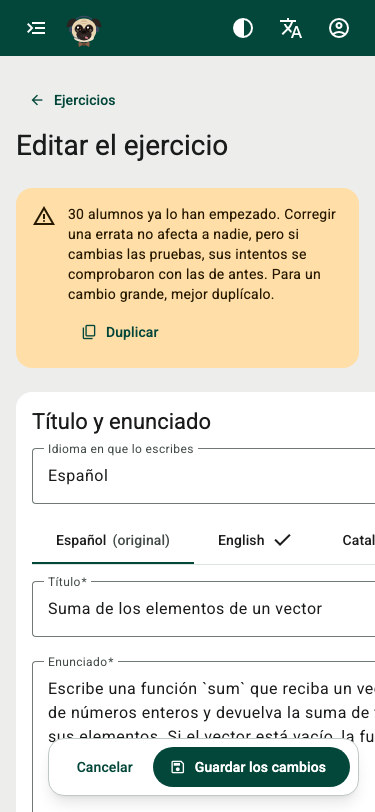
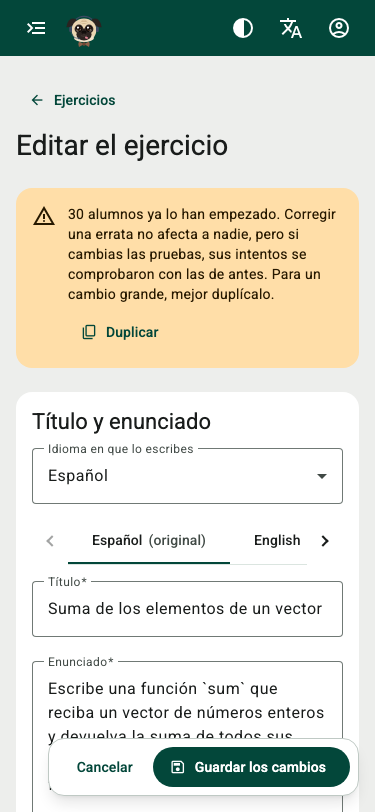
fix(teacher): keep the exercise form within a phone screen (step 4.3c)
On a phone the exercise form was wider than the screen and cut on the
right, since step 4.3. A grid item does not shrink below its content
(min-width: auto), and the tabs of the languages do not shrink either, so
at 375 px the column grew to 437 px instead of letting the tabs scroll
with their arrows. min-w-0 on both columns keeps the page at the width of
the screen.

Also records the commits of step 4.3c, the iteration in its log, the new
screenshots of the form and the e2e it leaves for step 7.1.

diff --git a/src/app/teacher/exercises/exercise-form-page.html b/src/app/teacher/exercises/exercise-form-page.html
@@ -74,8 +74,10 @@
     }
 
     <form [formRoot]="exerciseForm" class="flex flex-col gap-6">
+      <!-- min-w-0: a grid item does not shrink below its content by default, and the tabs of the
+           languages would widen the column past a phone screen instead of scrolling -->
       <div class="grid items-start gap-6 xl:grid-cols-2">
-        <div class="flex flex-col gap-6">
+        <div class="flex min-w-0 flex-col gap-6">
           <section
             class="flex flex-col gap-3 rounded-2xl bg-panel p-4 sm:p-6"
             aria-labelledby="statement-heading"
@@ -197,7 +199,7 @@
           </section>
         </div>
 
-        <div class="flex flex-col gap-6">
+        <div class="flex min-w-0 flex-col gap-6">
           <section
             class="flex flex-col gap-3 rounded-2xl bg-panel p-4 sm:p-6"
             aria-labelledby="function-heading"

diff --git a/docs/REGISTRO.md b/docs/REGISTRO.md
@@ -56,7 +56,7 @@ Este registro alimenta el seguimiento de la planificación con horas reales, el 
 | 13/11/2026 | 4.1b            | ≈ 30 min      | 22 min (Claude Code)                                                                                  | 19,9 M / 68 k                         | 6,88 $            | 1556 (+19) / 39 (+0); Deno 145 (+0); pgTAP 126 (+0)                        | Actividad en directo de la sesión en vivo: `activityByMinute()` y `liveFeed()` puras con TDD en el `LiveStore`, gráfica propia de ejecuciones y pistas por minuto con su texto, «Lo último» con solo avances y el nombre como enlace al intento, dos tarjetas que equilibran las columnas; la pestaña del detalle dice el alumno y el ejercicio (arreglado el título que la corrección de la URL pisaba); traducciones y D-056                                                                                                                                                                                                                                                                                                                                                                                                                                                                                                                                                                                                                                                                                                                                                                                                                                                                                                                                                                                                                                  | Aprobó el plan («Adelante»). El agente lo comprobó con el simulador en escritorio, móvil y tablet, axe en claro y oscuro, el enlace del feed y el título de la pestaña; falta la revisión visual del autor                                                                                                                                                                                                                                                                                                                                                                                                                                                                                                                                                                                                                                                     | `ea7f98e`, `a77c687` y `a5844d4`                                                                                                                                                | [4.1b](bitacora/4.1b-actividad-en-directo.md)                   |
 | 15/11/2026 | 4.3             | ≈ 2 h         | 41 h 56 min de sesión, ≈ 1 h 25 min de trabajo (Claude Code)                                          | 129,5 M / 262 k                       | 38,32 $           | 1643 (+87) / 39 (+0); Deno 146 (+1); scripts 129 (+0); pgTAP 140 (+14)     | Banco de ejercicios y formulario con Signal Forms (paso partido en 4.3, 4.3b y 4.3c): banco por las asignaturas del docente pedidas al servidor, con búsqueda sin tildes, filtros y páginas de 20 en la URL; duplicar, editar y borrar con la RLS por autor; formulario con una pestaña por idioma, función y parámetros en inglés, deslizadores y pruebas en JSON con `applyEach`, foco al primer error, vista previa como el alumno y aviso al salir sin guardar; `save_exercise()` en una transacción y `exercise_student_counts()`; el tutor usa los parámetros del ejercicio en el esqueleto; tests sin Spanglish; botones flotantes como el tutor; traducciones y D-057                                                                                                                                                                                                                                                                                                                                                                                                                                                                                                                                                                                                                                                                                                                                                                                   | Aprobó el plan con la partición («Sí, empieza») y pidió el código sin Spanglish; iteraciones: estética de los botones y «Nuevo ejercicio» fijo; escala del banco (paginación) y el gris de los flotantes; el error de `parameters` (versión del seed); traer solo sus asignaturas; el buscador que desaparecía al cambiar de asignatura. El agente lo comprobó con datos simulados en escritorio, móvil, claro y oscuro, y la consulta y la migración contra Supabase local; falta la revisión visual del autor, la prueba con `start:local` y la batería del tutor                                                                                                                                                                                                                                                                                            | `c38ad6f`, `52e3d61`, `be9d917` y `5cfb23f`                                                                                                                                     | [4.3](bitacora/4.3-banco-de-ejercicios.md)                      |
 | 15/11/2026 | 4.3b            | ≈ 1 h 15 min  | 4 h 50 min de sesión (casi 4 h de interrupción), ≈ 55 min de trabajo (Claude Code)                    | 82,3 M / 219 k                        | 27,34 $           | 1726 (+83) / 39 (+0); Deno 146 (+0); scripts 129 (+0); pgTAP 158 (+18)     | Bloques y asignaciones (D-058): pantalla Bloques con un `BlockService` nuevo (simulado y Supabase); crear, titular y traducir, ordenar (arrastrar o «Subir»/«Bajar»), ocultar y borrar lo que nadie empezó; añadir ejercicios del banco (de la asignatura o de todas, con «También en»), orden, ocultar, fecha de entrega (también para todo el bloque) y «Quitar» con «Deshacer»; «Asignar a un bloque…» desde el banco; la fecha en el catálogo del alumno; migración con el orden y las altas en el servidor y la RLS de borrado; adaptador de fechas por idioma; seed v10; 4.3d propuesto                                                                                                                                                                                                                                                                                                                                                                                                                                                                                                                                                                                                                                                                                                                                                                                                                                                                   | Aprobó el plan («Sí, empieza»); al cierre, la fecha de apertura y duplicar un bloque como 4.3d propuesto; pendiente su revisión visual                                                                                                                                                                                                                                                                                                                                                                                                                                                                                                                                                                                                                                                                                                                         | `b4a9f47`, `889633a` y `80e0374`                                                                                                                                                | [4.3b](bitacora/4.3b-bloques-y-asignaciones.md)                 |
-| 15/11/2026 | 4.3c            | ≈ 1 h 25 min  | 1 h 7 min de trabajo (Claude Code)                                                                    | 56,0 M / 147 k                        | 17,09 $           | 1771 (+45) / 39 (+0); Deno 171 (+25); scripts 129 (+0); pgTAP 167 (+9)     | Probar y traducir ejercicios (D-059): «Probar mi solución» en `execute` sin intento, con el detalle de las ocultas, sin guardar nada y con cada prueba marcada; «Traducir con IA» con una Edge Function `translate` y la cadena de modelos del tutor (proveedor en `_shared/`), que rechaza la traducción que cambia el código; límite del profesorado con `staff_request` y `claim_staff_request`; el formulario como herramienta explícita de WebMCP (`fillExerciseForm`), que rellena sin guardar; «Probar como alumno» propuesto como 4.3e                                                                                                                                                                                                                                                                                                                                                                                                                                                                                                                                                                                                                                                                                                                                                                                                                                                                                                                  | `npm run check` en verde; navegador con datos simulados (comprobar y traducir); `execute` y `translate` contra Supabase local como docente y alumno; cuatro traducciones reales con Gemini, todas a la primera y con el código intacto. Validación del autor pendiente                                                                                                                                                                                                                                                                                                                                                                                                                                                                                                                                                                                         | Propuestos (bitácora)                                                                                                                                                           | [4.3c](bitacora/4.3c-probar-y-traducir.md)                      |
+| 15/11/2026 | 4.3c            | ≈ 1 h 25 min  | 1 h 7 min de trabajo (Claude Code)                                                                    | 56,0 M / 147 k                        | 17,09 $           | 1771 (+45) / 39 (+0); Deno 171 (+25); scripts 129 (+0); pgTAP 167 (+9)     | Probar y traducir ejercicios (D-059): «Probar mi solución» en `execute` sin intento, con el detalle de las ocultas, sin guardar nada y con cada prueba marcada; «Traducir con IA» con una Edge Function `translate` y la cadena de modelos del tutor (proveedor en `_shared/`), que rechaza la traducción que cambia el código; límite del profesorado con `staff_request` y `claim_staff_request`; el formulario como herramienta explícita de WebMCP (`fillExerciseForm`), que rellena sin guardar; «Probar como alumno» propuesto como 4.3e                                                                                                                                                                                                                                                                                                                                                                                                                                                                                                                                                                                                                                                                                                                                                                                                                                                                                                                  | `npm run check` en verde; navegador con datos simulados (comprobar y traducir); `execute` y `translate` contra Supabase local como docente y alumno; cuatro traducciones reales con Gemini, todas a la primera y con el código intacto. Iteración 1: el formulario se salía de la pantalla en el móvil (venía del 4.3), arreglado con `min-w-0`. El autor lo dio por bueno                                                                                                                                                                                                                                                                                                                                                                                                                                                                                     | `54ed63d`, `31c88af`, `8e0288d` y fix                                                                                                                                           | [4.3c](bitacora/4.3c-probar-y-traducir.md)                      |
 
 Las horas humanas del 0.0 y del 0.1 se estimaron a posteriori, a petición del autor: en el 0.0, la duración del chat más el tiempo de revisión del plan; en el 0.1, el intervalo entre el primer y el último commit del paso (18:31 a 21:13).
 

diff --git a/docs/E2E-PENDIENTES.md b/docs/E2E-PENDIENTES.md
@@ -27,3 +27,4 @@ Los e2e no se escriben ni se ejecutan durante los pasos (D-026). Cada paso apunt
 | 4.3  | Banco (`/docente/ejercicios`)                                     | Accesibilidad: axe en claro y oscuro con datos, filtrado sin resultados, primera carga (red lenta) y con el menú de acciones y el diálogo de borrar abiertos, a 375, 768 y 1280 px. Comportamiento: «Mis asignaturas» trae solo las del docente y otra asignatura se pide al servidor sin perder la búsqueda; buscar sin tildes, dificultad, «Solo los míos» y página en la URL; volver de un ejercicio conserva los filtros; borrar uno sin intentos pregunta y lo quita; «Borrar» desactivado con intentos; los ajenos solo dejan ver y duplicar; «Nuevo ejercicio» lleva la asignatura mostrada                                                                                                                                                                                                                                                                                                                                                                                                                                                                                                                       |
 | 4.3  | Formulario (`/docente/ejercicios/nuevo` y `/:id`)                 | Accesibilidad: axe en claro y oscuro con errores, con cada pestaña de idioma, en solo lectura (ejercicio ajeno) y con la vista previa abierta, a 375, 768 y 1280 px. Comportamiento: crear un ejercicio completo y encontrarlo en el banco; guardar vacío lleva el foco al título; una traducción a medias abre su pestaña; añadir y quitar pruebas; la vista previa en otro idioma; salir con cambios pregunta y cerrar la pestaña avisa; con Supabase local, un docente no puede guardar el ejercicio de otro y el tutor usa los parámetros del ejercicio en el esqueleto                                                                                                                                                                                                                                                                                                                                                                                                                                                                                                                                              |
 | 4.3b | Bloques (`/docente/bloques`) y catálogo                           | Accesibilidad: axe en claro y oscuro con datos, sin bloques, sin grupos, con cada diálogo abierto (nuevo bloque, añadir ejercicios, fecha de entrega, asignar desde el banco) y con un menú abierto, a 375, 768 y 1280 px. Comportamiento: crear un bloque, añadirle ejercicios, ordenarlo arrastrando y con «Subir»/«Bajar», ponerle fecha a todo el bloque y verla en el catálogo de un alumno del grupo; ocultar un bloque y que el alumno deje de verlo; quitar un ejercicio y «Deshacer»; lo empezado no se borra; con Supabase local, que dos pestañas reordenando no dejen posiciones repetidas                                                                                                                                                                                                                                                                                                                                                                                                                                                                                                                   |
+| 4.3c | Formulario de ejercicio (`/docente/ejercicios/:id`)               | A 375 px, la página no tiene desplazamiento horizontal (`scrollWidth` igual al ancho) y las pestañas de idioma se desplazan con sus flechas; axe con «Probar mi solución» abierto y con el aviso del borrador de la IA                                                                                                                                                                                                                                                                                                                                                                                                                                                                                                                                                                                                                                                                                                                                                                                                                                                                                                   |

diff --git a/docs/bitacora/4.3c-probar-y-traducir.md b/docs/bitacora/4.3c-probar-y-traducir.md
@@ -1,6 +1,6 @@
 # Paso 4.3c · Probar y traducir ejercicios
 
-15/11/2026 · Sesión de Claude Code · Commits propuestos (abajo), pendientes de que el autor los ejecute
+15/11/2026 · Sesión de Claude Code · `54ed63d`, `31c88af`, `8e0288d` y el arreglo del móvil
 
 ## Objetivo
 
@@ -71,7 +71,9 @@ Verificado también:
 
 ## Validación humana
 
-Pendiente: el autor revisa el paso en el navegador.
+El autor preguntó para qué servía `fillExerciseForm` y si la traducción funcionaba con la IA real. Tras recuperar la clave local, se probó con Gemini y el autor dio el paso por bueno («Preparar los commits»).
+
+**Iteración 1 (después de los commits):** el autor vio cortada la captura de móvil del formulario. Venía del 4.3: la captura de entonces sale igual. En el navegador, a 375 px, la columna medía 437 px. Las pestañas de idioma no se estrechan, y un elemento de `grid` no baja de lo que pide su contenido (`min-width: auto`), así que la columna se ensanchaba en lugar de activar las flechas de las pestañas. Se arregló con `min-w-0` en las dos columnas. La página vuelve a medir 375 px y las pestañas se desplazan con sus flechas. Se repitieron las capturas y el check.
 
 ## Capturas
 
@@ -85,11 +87,12 @@ Pendiente: el autor revisa el paso en el navegador.
 
 Horas humanas estimadas: el tiempo de Claude sin pausas más un 30 % de revisión.
 
-## Commits propuestos
+## Commits
 
-1. `feat(data): check a teacher's solution and translate exercises on the server (step 4.3c)`: migración, pgTAP, Edge Functions, `config.toml`, contrato y servicios de datos.
-2. `feat(teacher): try my solution, translate with AI and fill the form from WebMCP (step 4.3c)`: formulario y traducciones de la interfaz.
-3. `docs: record step 4.3c and propose step 4.3e (step 4.3c)`: documentación, capturas y métricas.
+1. `54ed63d` feat(data): check a teacher's solution and translate exercises on the server (step 4.3c)
+2. `31c88af` feat(teacher): try my solution, translate with AI and fill the form from WebMCP (step 4.3c)
+3. `8e0288d` docs: record step 4.3c and propose step 4.3e (step 4.3c)
+4. fix(teacher): keep the exercise form within a phone screen (step 4.3c), with the commits recorded
 
 ## Para la presentación
 
